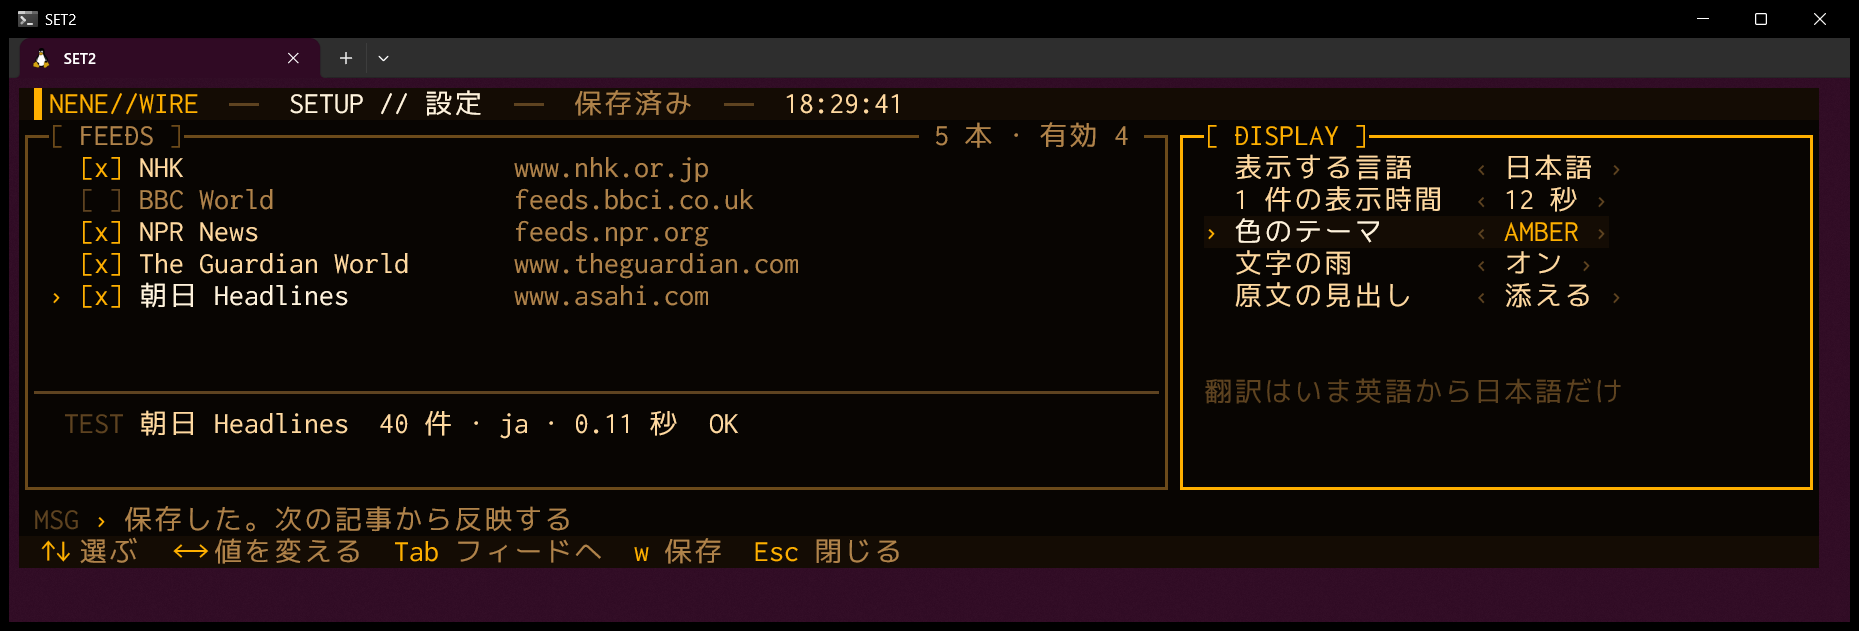
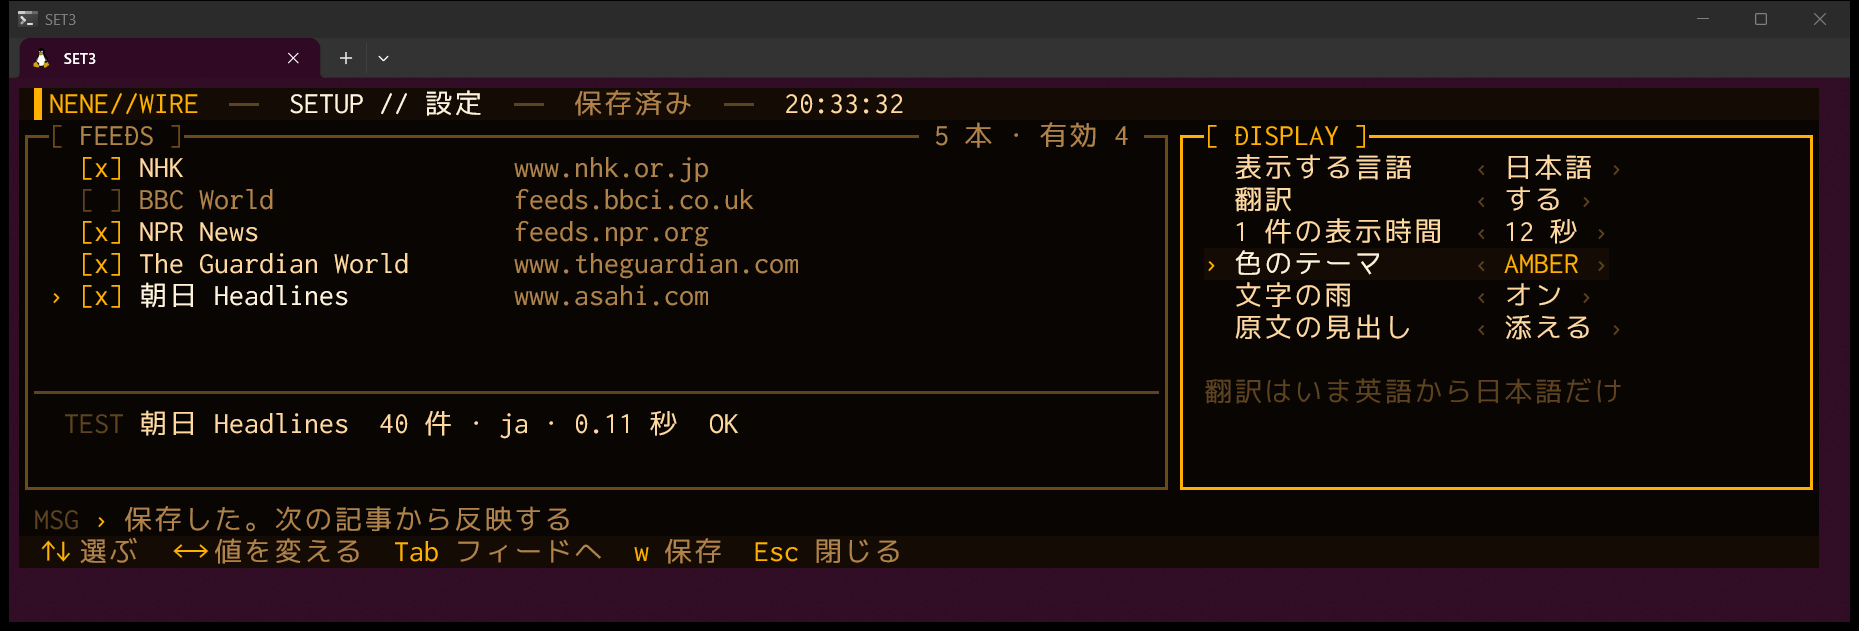
docs: v0.3.0 の公開を記録し、README の設定画面の写真を翻訳の行の入ったものに撮り直す (#29)
タグ v0.3.0 は b8e60b7、配布物の SHA-256 は 96d8cc0d…480a。タグの push と Release の作成は施主が実行した。

Claude-Session: https://claude.ai/code/session_01JDjQajTAtMVa9UCWXh6TWg

diff --git a/docs/todo/current.md b/docs/todo/current.md
@@ -16,7 +16,7 @@
 | Phase 3-3 演出（全部入れる・Q13） | ✅ 2026-10-26（Issue #16・ADR 0009） |
 | Phase 3-4 記事の保存（裏での取得は 3-2b で前倒し） | 🔲 別 Issue |
 | Phase 3-5 翻訳（Argos Translate・Q5） | ✅ 2026-10-26（Issue #18・ADR 0010） |
-| Phase 3-6 設定画面 | 🔄 Issue #23（ADR 0011） |
+| Phase 3-6 設定画面 | ✅ 2026-10-26（Issue #23・#27・ADR 0011・0013） |
 | Phase 4 公開（v0.1.0 ベータを施主の指示で前倒し・Q12） | ✅ 2026-10-26 v0.1.0（Issue #11・#14・ADR 0008） |
 
 ## 動くもの
@@ -34,6 +34,10 @@
   再ダウンロードして照合し、`install.sh` を `curl … | bash` で通した。https://github.com/hideyukiMORI/nene-wire/releases/tag/v0.2.0
 
 - `install.ps1`: PowerShell から WSL の中に入れ、`nene-wire.cmd` で PowerShell・cmd から起動（ADR 0012）
+
[1 lines of base64/hex data omitted]
+  タグの push と Release の作成は施主が実行した（このセッションの自動モードが公開を止めたため）。再ダウンロードして照合し、`install.sh` と `install.ps1` の両方で 0.3.0 が入ることを確かめた。
+  https://github.com/hideyukiMORI/nene-wire/releases/tag/v0.3.0
 
 ## 動かないもの
 

diff --git a/README.md b/README.md
@@ -18,7 +18,7 @@ It is the sibling of [NeNe Gambit](https://github.com/hideyukiMORI/nene-gambit) 
 A new story has just arrived on NEON TIMES, and before it cuts the line the strip sounds the intercept alarm: hazard stripes and a crawling `INTERCEPT ■ 緊急傍受 ■ PRIORITY: ALPHA` banner.
 Every feed and story in these screenshots is made up by `--demo`; real articles are never stored in this repository.</sub>
 
-> **Beta.** v0.2.0 brings the effects and translation (English → Japanese). On `main`: the settings screen. Saved articles are still to come.
+> **Beta.** v0.3.0 adds the settings screen, a translation switch and installing from PowerShell. Saved articles are still to come.
 
 ---
 
@@ -50,7 +50,7 @@ The whole script is [install.ps1](install.ps1). To uninstall: delete `%LOCALAPPD
 <summary>Install by hand</summary>
 
 ```bash
-v=0.2.0
+v=0.3.0
 curl -fsSL -O https://github.com/hideyukiMORI/nene-wire/releases/download/v$v/nene-wire-$v-linux-x86_64.tar.gz \
            -O https://github.com/hideyukiMORI/nene-wire/releases/download/v$v/SHA256SUMS
 sha256sum --check SHA256SUMS

diff --git a/README.ja.md b/README.ja.md
@@ -18,7 +18,7 @@
 NEON TIMES に新しい記事が届き、割り込む前に緊急傍受の警告が鳴っている。警告の縞と、流れる帯 `INTERCEPT ■ 緊急傍受 ■ PRIORITY: ALPHA`。
 この写真のフィードと記事はすべて `--demo` の架空のもの。実際の記事はこのリポジトリに入れない。</sub>
 
-> **ベータ版。** v0.2.0 で演出と翻訳（英語→日本語）が入った。`main` には設定画面も入っている。記事の保存はこれから。
+> **ベータ版。** v0.3.0 で設定画面・翻訳のオン／オフ・PowerShell からのインストールが入った。記事の保存はこれから。
 
 ---
 
@@ -49,7 +49,7 @@ irm https://raw.githubusercontent.com/hideyukiMORI/nene-wire/main/install.ps1 | 
 <summary>手で入れる</summary>
 
 ```bash
-v=0.2.0
+v=0.3.0
 curl -fsSL -O https://github.com/hideyukiMORI/nene-wire/releases/download/v$v/nene-wire-$v-linux-x86_64.tar.gz \
            -O https://github.com/hideyukiMORI/nene-wire/releases/download/v$v/SHA256SUMS
 sha256sum --check SHA256SUMS
